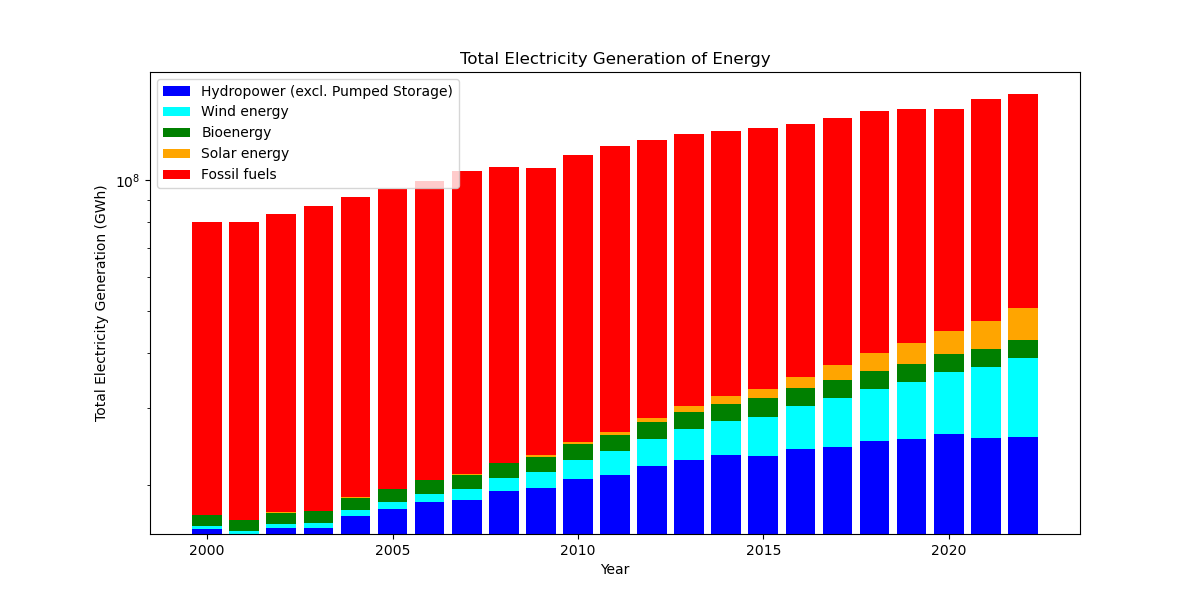
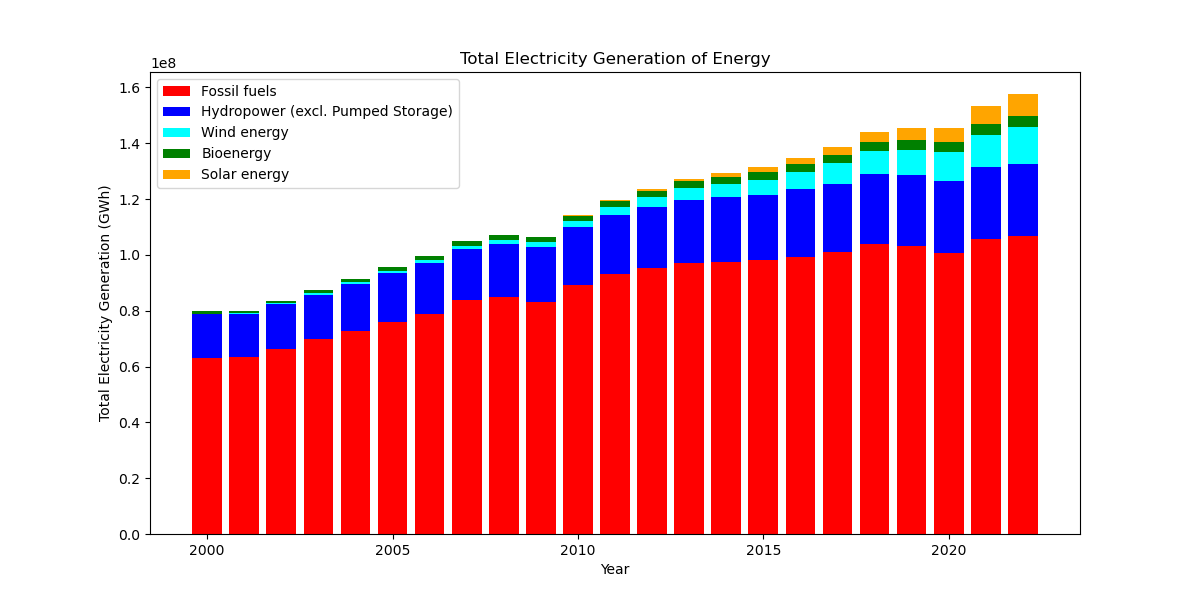
change graph

diff --git a/index.html b/index.html
@@ -152,7 +152,7 @@
     </header>
 
     <main>
-      <h2>Proposition: [The Electricity Generation of Fossil Fuels are decreasing]</h2>
+      <h2>Proposition: [The proportion of renewable energy is increasing.]</h2>
 
       <section>
         <h3>FOR the Proposition</h3>
@@ -165,9 +165,9 @@
         <p>Design Decisions and Rationale:</p>
 
         <ul>
-          <li>RATIONALE_1</li>
-          <li>RATIONALE_2</li>
-          <li>RATIONALE_3</li>
+          <li>RATIONALE_1: assign suitable color for each energy(2points(fully earnest))→each color matches our image for each energy, which let us easier to understand.</li>
+          <li>RATIONALE_2: normal scale axis(2points(fully earnest))→linear axis let us easier to understand the amount of each energy generation.</li>
+          <li>RATIONALE_3: remove 2023 data(2points(fully earnest))→It is because some data in 2023 is None.</li>
         </ul>
       </section>
 
@@ -182,8 +182,8 @@
         <p>Design Decisions and Rationale:</p>
 
         <ul>
-          <li>RATIONALE_1</li>
-          <li>RATIONALE_2</li>
+          <li>RATIONALE_1: making y-axis as log scale(-1 point deceptive)→highlight the difference not absolute amount</li>
+          <li>RATIONALE_2: stacking in a pile from Fossil fuels to Renewable energy(point deceptive)</li>
           <li>RATIONALE_3</li>
         </ul>
       </section>
